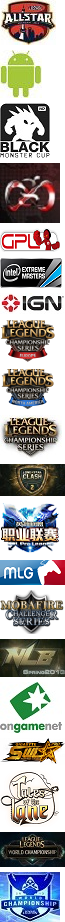
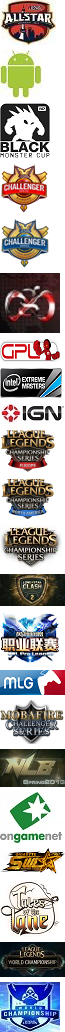
Add Challenger Series tournament thumbnail for NA and EU

diff --git a/dist/css/loleventvods.css b/dist/css/loleventvods.css
@@ -908,55 +908,57 @@ a[href="#sweden"]:after {
 .thing .thumbnail[href*="world"],
 .thing .thumbnail[href*="android"],
 .thing .thumbnail[href*="lcs_north"],
-.thing .thumbnail[href*="lcs_europe"] {
+.thing .thumbnail[href*="lcs_europe"],
+.thing .thumbnail[href*="na_chall"],
+.thing .thumbnail[href*="eu_chall"] {
   background: url(%%thumbnails%%) no-repeat top left;
   padding: 0;
 }
 .thing .thumbnail[href*="iem_cologne"],
 .thing .thumbnail[href*="iem"] {
-  background-position: 0 -258px;
+  background-position: 0 -368px;
   height: 30px;
   width: 62px;
   margin-left: 9px;
   margin-right: 9px;
 }
 .thing .thumbnail[href*="gfinity"] {
-  background-position: 0 -163px;
+  background-position: 0 -273px;
   height: 60px;
   width: 60px;
   margin-left: 10px;
   margin-right: 10px;
 }
 .thing .thumbnail[href*="mobafire"] {
-  background-position: 0 -590px;
+  background-position: 0 -700px;
   height: 44px;
   width: 65px;
   margin-left: 7px;
   margin-right: 8px;
 }
 .thing .thumbnail[href*="gpl"] {
-  background-position: 0 -228px;
+  background-position: 0 -338px;
   height: 25px;
   width: 60px;
   margin-left: 10px;
   margin-right: 10px;
 }
 .thing .thumbnail[href*="lcs"] {
-  background-position: 0 -415px;
+  background-position: 0 -525px;
   height: 44px;
   width: 62px;
   margin-left: 9px;
   margin-right: 9px;
 }
 .thing .thumbnail[href*="mlg"] {
-  background-position: 0 -560px;
+  background-position: 0 -670px;
   height: 25px;
   width: 65px;
   margin-left: 7px;
   margin-right: 8px;
 }
 .thing .thumbnail[href*="starswar"] {
-  background-position: 0 -738px;
+  background-position: 0 -848px;
   height: 27px;
   width: 65px;
   margin-left: 7px;
@@ -964,7 +966,7 @@ a[href="#sweden"]:after {
 }
 .thing .thumbnail[href*="ign"],
 .thing .thumbnail[href*="ipl"] {
-  background-position: 0 -293px;
+  background-position: 0 -403px;
   height: 21px;
   width: 65px;
   margin-left: 7px;
@@ -977,21 +979,21 @@ a[href="#sweden"]:after {
 .thing .thumbnail[href*="2_european"],
 .thing .thumbnail[href*="2_south"],
 .thing .thumbnail[href*="na_regionals_com"] {
-  background-position: 0 -832px;
+  background-position: 0 -942px;
   height: 35px;
   width: 65px;
   margin-left: 7px;
   margin-right: 8px;
 }
 .thing .thumbnail[href*="tales"] {
-  background-position: 0 -770px;
+  background-position: 0 -880px;
   height: 57px;
   width: 60px;
   margin-left: 10px;
   margin-right: 10px;
 }
 .thing .thumbnail[href*="lone"] {
-  background-position: 0 -464px;
+  background-position: 0 -574px;
   height: 32px;
   width: 65px;
   margin-left: 7px;
@@ -1002,7 +1004,7 @@ a[href="#sweden"]:after {
 .thing .thumbnail[href*="ogn_hot"],
 .thing .thumbnail[href*="ogn_ol"],
 .thing .thumbnail[href*="ogn_lol"] {
-  background-position: 0 -682px;
+  background-position: 0 -792px;
   height: 51px;
   width: 62px;
   margin-left: 9px;
@@ -1023,21 +1025,21 @@ a[href="#sweden"]:after {
   margin-right: 15px;
 }
 .thing .thumbnail[href*="lpl"] {
-  background-position: 0 -501px;
+  background-position: 0 -611px;
   height: 54px;
   width: 60px;
   margin-left: 10px;
   margin-right: 10px;
 }
 .thing .thumbnail[href*="nlb_spring"] {
-  background-position: 0 -639px;
+  background-position: 0 -749px;
   height: 38px;
   width: 65px;
   margin-left: 7px;
   margin-right: 8px;
 }
 .thing .thumbnail[href*="world"] {
-  background-position: 0 -872px;
+  background-position: 0 -982px;
   height: 50px;
   width: 60px;
   margin-left: 10px;
@@ -1051,18 +1053,32 @@ a[href="#sweden"]:after {
   margin-right: 19px;
 }
 .thing .thumbnail[href*="lcs_north"] {
-  background-position: 0 -368px;
+  background-position: 0 -478px;
   height: 42px;
   width: 55px;
   margin-left: 12px;
   margin-right: 13px;
 }
 .thing .thumbnail[href*="lcs_europe"] {
-  background-position: 0 -319px;
+  background-position: 0 -429px;
   height: 44px;
   width: 55px;
   margin-left: 12px;
   margin-right: 13px;
+}
+.thing .thumbnail[href*="na_chall"] {
+  background-position: 0 -218px;
+  height: 50px;
+  width: 50px;
+  margin-left: 15px;
+  margin-right: 15px;
+}
+.thing .thumbnail[href*="eu_chall"] {
+  background-position: 0 -163px;
+  height: 50px;
+  width: 50px;
+  margin-left: 15px;
+  margin-right: 15px;
 }
 a[href="#america"]:after,
 a[href="#china"]:after,

diff --git a/less/sprites/thumbnails.less b/less/sprites/thumbnails.less
@@ -20,104 +20,116 @@
     height: 55px;
 }
 
-.thumbnails-gfinity() {
+.thumbnails-cs-eu() {
     background-position: 0 -163px;
+    @width: 50px;
+    height: 50px;
+}
+
+.thumbnails-cs-na() {
+    background-position: 0 -218px;
+    @width: 50px;
+    height: 50px;
+}
+
+.thumbnails-gfinity() {
+    background-position: 0 -273px;
     @width: 60px;
     height: 60px;
 }
 
 .thumbnails-gpl() {
-    background-position: 0 -228px;
+    background-position: 0 -338px;
     @width: 60px;
     height: 25px;
 }
 
 .thumbnails-iem() {
-    background-position: 0 -258px;
+    background-position: 0 -368px;
     @width: 62px;
     height: 30px;
 }
 
 .thumbnails-ign() {
-    background-position: 0 -293px;
+    background-position: 0 -403px;
     @width: 65px;
     height: 21px;
 }
 
 .thumbnails-lcs-eu() {
-    background-position: 0 -319px;
+    background-position: 0 -429px;
     @width: 55px;
     height: 44px;
 }
 
 .thumbnails-lcs-na() {
-    background-position: 0 -368px;
+    background-position: 0 -478px;
     @width: 55px;
     height: 42px;
 }
 
 .thumbnails-lcs() {
-    background-position: 0 -415px;
+    background-position: 0 -525px;
     @width: 62px;
     height: 44px;
 }
 
 .thumbnails-lone-star-clash() {
-    background-position: 0 -464px;
+    background-position: 0 -574px;
     @width: 65px;
     height: 32px;
 }
 
 .thumbnails-lpl() {
-    background-position: 0 -501px;
+    background-position: 0 -611px;
     @width: 60px;
     height: 54px;
 }
 
 .thumbnails-mlg() {
-    background-position: 0 -560px;
+    background-position: 0 -670px;
     @width: 65px;
     height: 25px;
 }
 
 .thumbnails-mobafire() {
-    background-position: 0 -590px;
+    background-position: 0 -700px;
     @width: 65px;
     height: 44px;
 }
 
 .thumbnails-nlb() {
-    background-position: 0 -639px;
+    background-position: 0 -749px;
     @width: 65px;
     height: 38px;
 }
 
 .thumbnails-ogn() {
-    background-position: 0 -682px;
+    background-position: 0 -792px;
     @width: 62px;
     height: 51px;
 }
 
 .thumbnails-starswar() {
-    background-position: 0 -738px;
+    background-position: 0 -848px;
     @width: 65px;
     height: 27px;
 }
 
 .thumbnails-tales() {
-    background-position: 0 -770px;
+    background-position: 0 -880px;
     @width: 60px;
     height: 57px;
 }
 
 .thumbnails-wcs2() {
-    background-position: 0 -832px;
+    background-position: 0 -942px;
     @width: 65px;
     height: 35px;
 }
 
 .thumbnails-wcs3() {
-    background-position: 0 -872px;
+    background-position: 0 -982px;
     @width: 60px;
     height: 50px;
 } 

diff --git a/less/thumbnails.less b/less/thumbnails.less
@@ -38,7 +38,9 @@
     &[href*="world"],
     &[href*="android"],
     &[href*="lcs_north"],
-    &[href*="lcs_europe"] {
+    &[href*="lcs_europe"],
+    &[href*="na_chall"],
+    &[href*="eu_chall"] {
         .thumbnails;
         padding: 0;
     }
@@ -152,6 +154,16 @@
 
     &[href*="lcs_europe"] {
         .thumbnails-lcs-eu;
+        .calculate-width-and-margins();
+    }
+
+    &[href*="na_chall"] {
+        .thumbnails-cs-na;
+        .calculate-width-and-margins();
+    }
+
+    &[href*="eu_chall"] {
+        .thumbnails-cs-eu;
         .calculate-width-and-margins();
     }
 }
